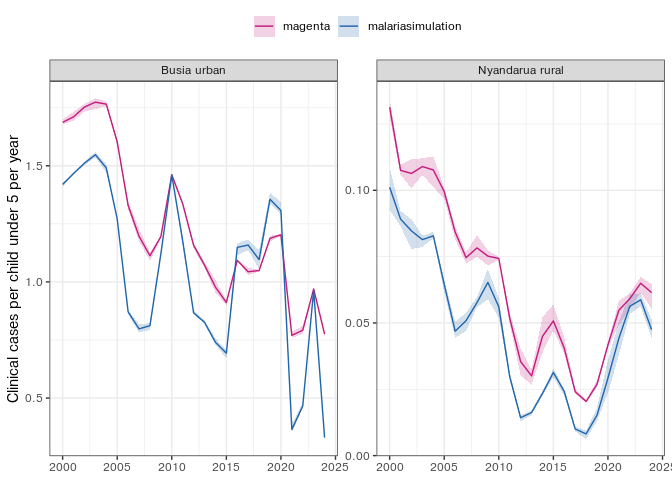
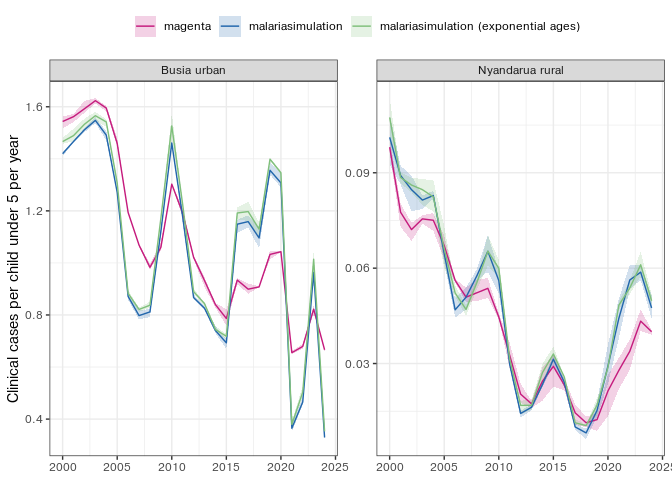
rerun site file comparison with the q0 and seasonality fixes, and malariasimulation with exponential ages

diff --git a/NEWS.md b/NEWS.md
@@ -10,7 +10,8 @@
   source management): the aim is the right transmission setting for scenario
   modelling of drug resistance.
 * New vignette, "Running from a site file", which compares `magenta` with
-  malariasimulation over 2000-2024 for two Kenya units.
+  malariasimulation over 2000-2024 for two Kenya units. `site_to_pipeline()`
+  no longer sets `eta`, which the individual model does not use.
 * `drug_create()`, `drug_create_al()`, `drug_create_asaq()`,
   `drug_create_dhappq()` and `drug_create_default_no_resistance()` are now
   exported.
@@ -22,6 +23,16 @@
   than a year old. "campaign" ages nets from `itn_campaign_t0` and re-issues
   them every `ITN_interval`, and "constant" holds net efficacy at its mean over
   a net life of `ITN_interval`. IRS still resets every year.
+* Bug fix: on a fresh start the individual model read only `phi0` (and the
+  severe immunity parameters) from the parameter list, so other values, such
+  as `Q0`, were used by the equilibrium and mosquito density but not by the
+  individual model. It now also reads `Q0`, `mu0`, `rho`, `a0`, `sigma2` and
+  the infection and immunity parameters. `cU`, `eta`, the durations of each
+  state and the mosquito delays are still not read. Default outputs are
+  unchanged.
+* Bug fix: a `seasonality` argument was not passed to the individual model,
+  which ran without seasonality. Its seasonality now comes from the same
+  parameters as the equilibrium.
 * Bug fix: `itn_half_life` and `irs_half_life` were overwritten with their
   defaults, so other values had no effect. The defaults are unchanged, so
   default outputs are the same.
